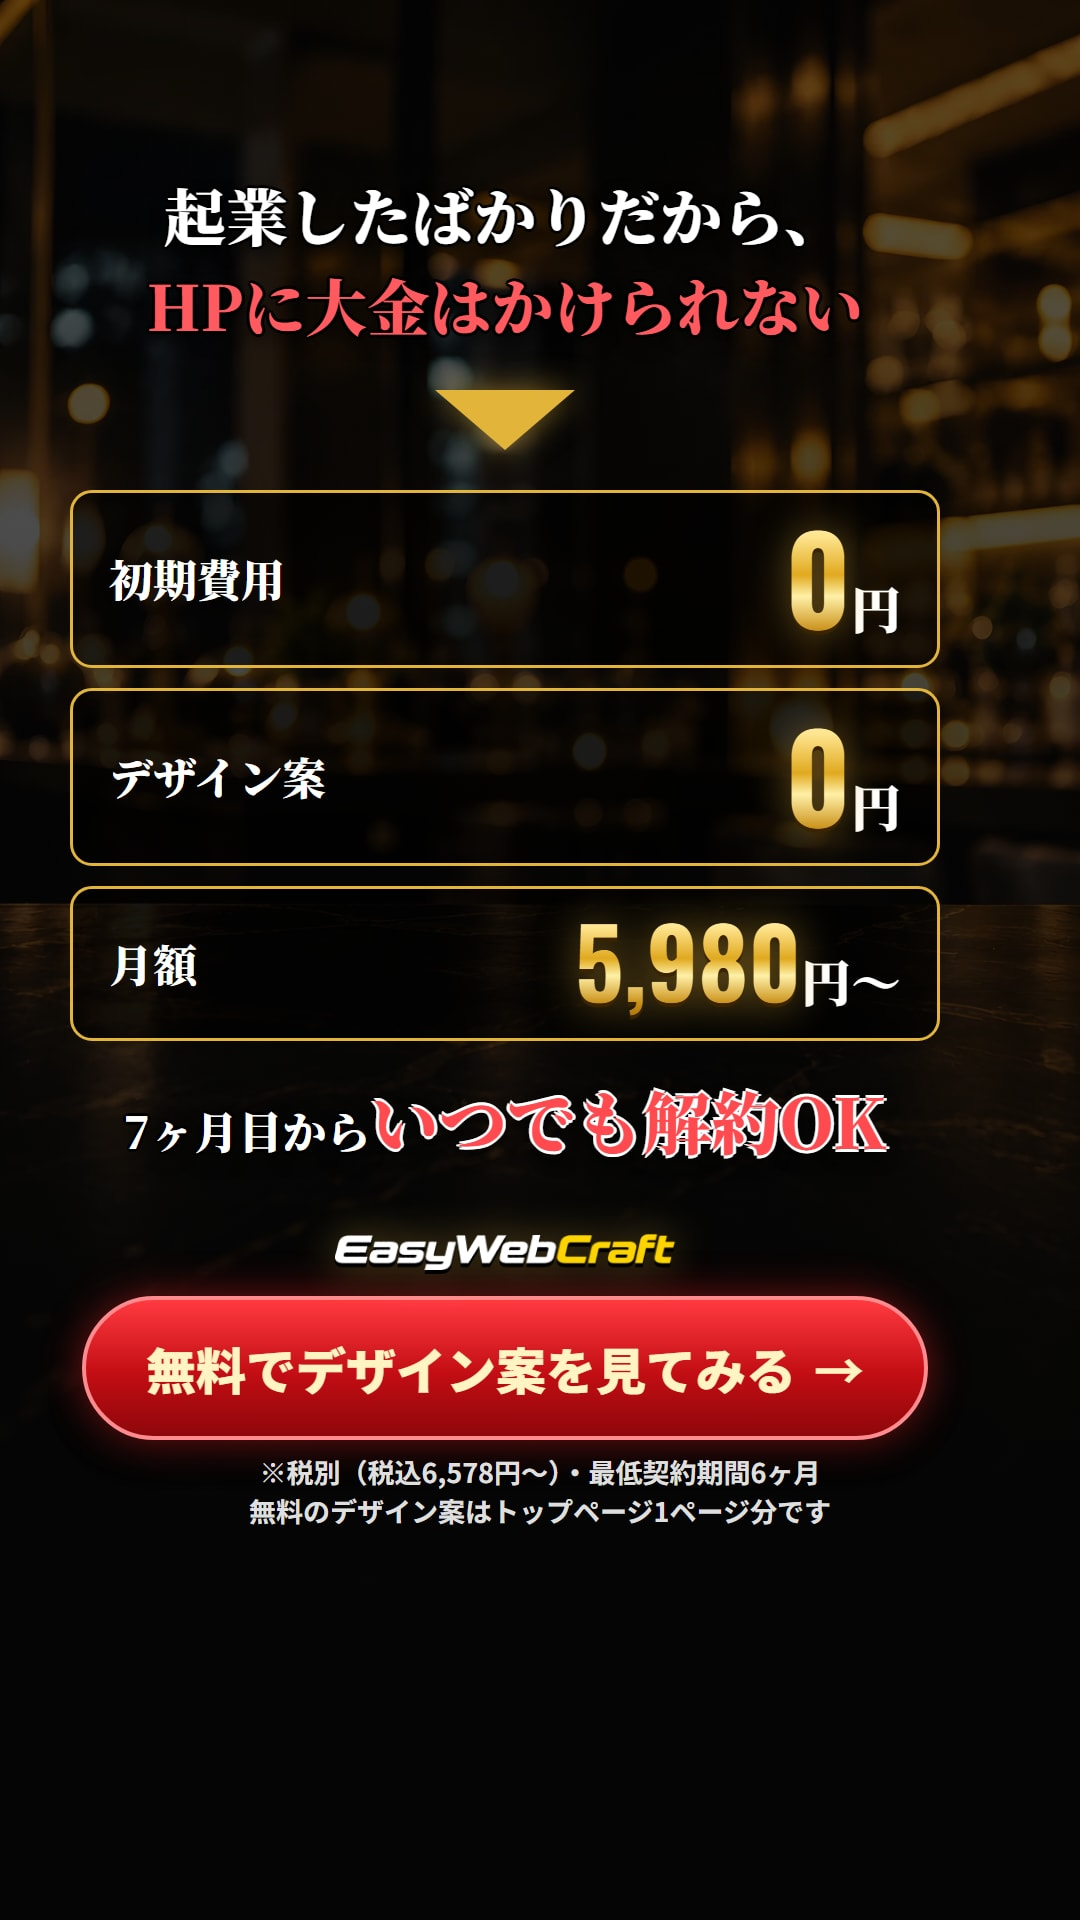
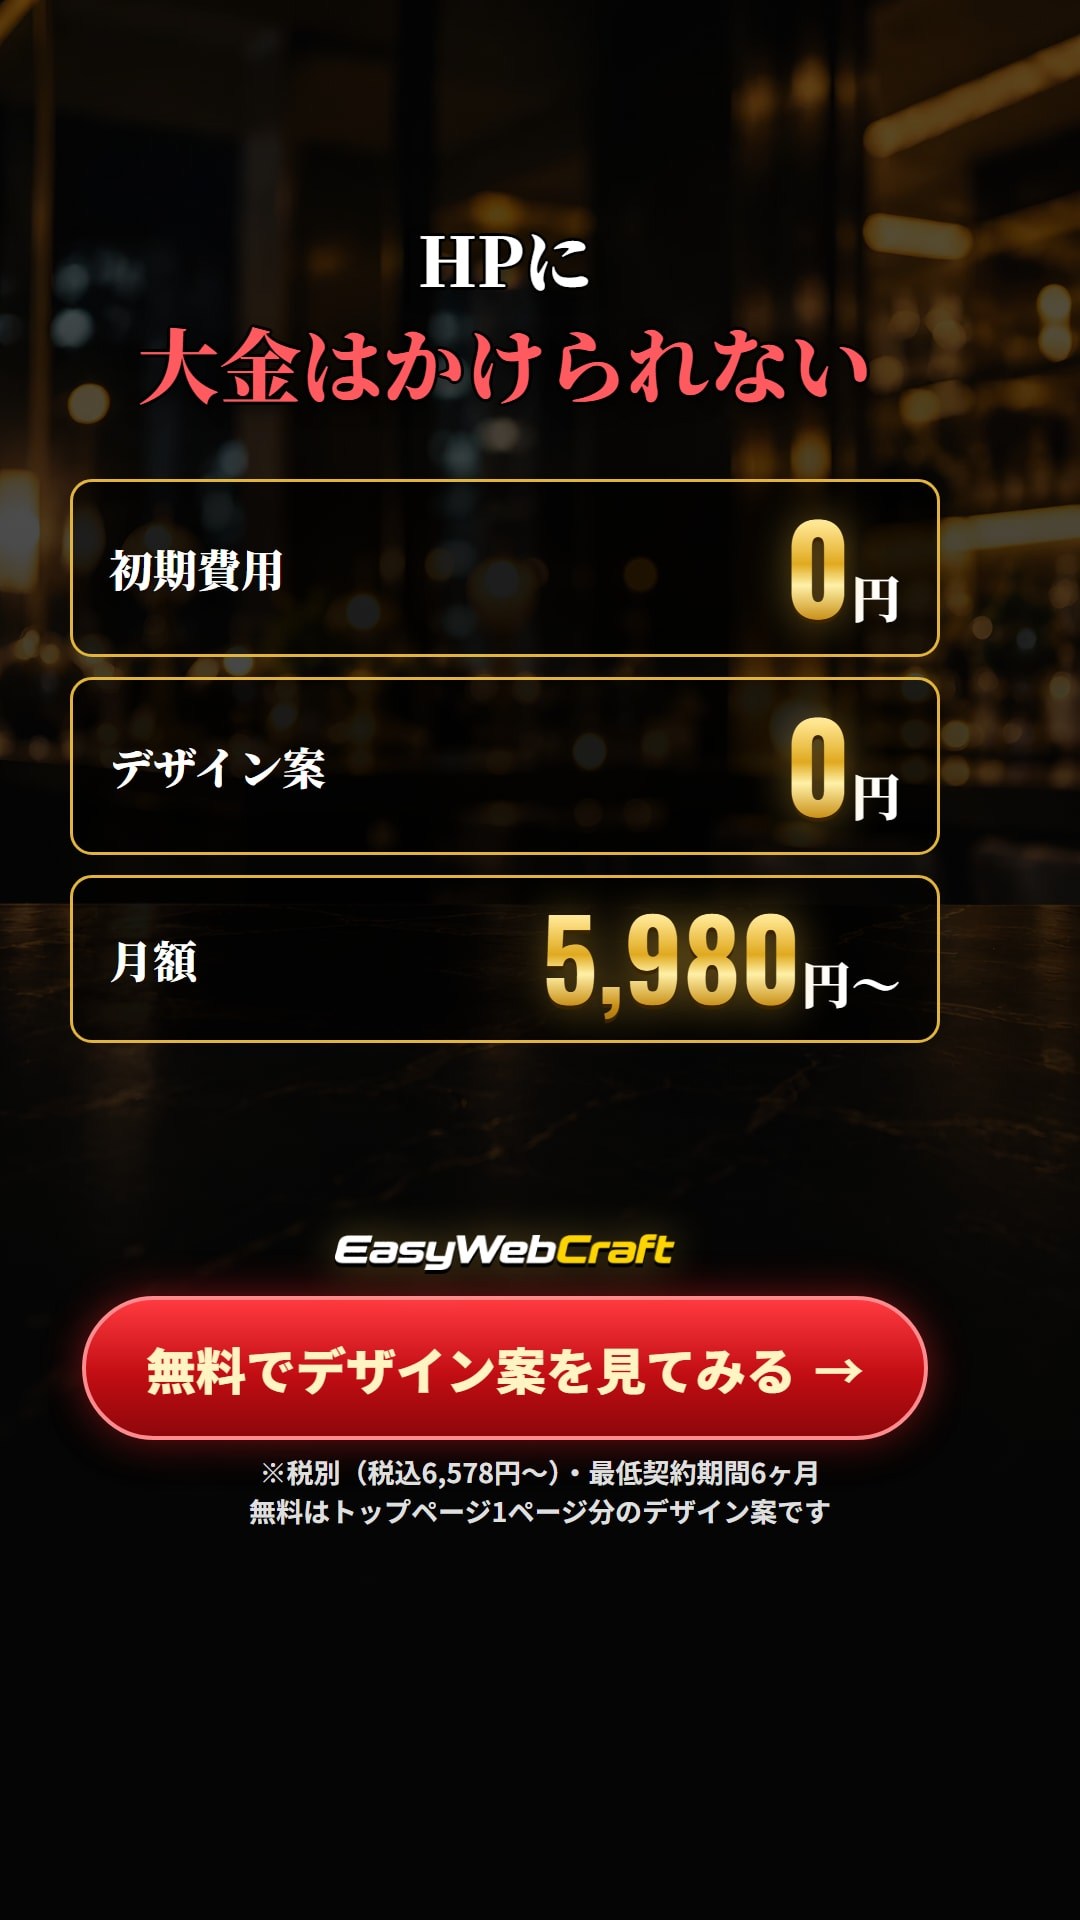
広告6案の文字量を削減（フック＋答え＋CTAに絞る）
Claude-Session: https://claude.ai/code/session_01G65TiHfa1BUco43NvNDLJF

diff --git a/challenge/ads.html b/challenge/ads.html
@@ -122,6 +122,14 @@ body{width:1080px; font-family:"Noto Sans JP",sans-serif; color:#fff; background
 .ad.busy::after{background:linear-gradient(180deg,rgba(5,5,5,0) 0%,rgba(5,5,5,0) 38%,rgba(5,5,5,.7) 52%,rgba(5,5,5,.9) 70%,#050505 100%)}
 #c5 .todo{grid-template-columns:repeat(4,auto); justify-content:center; gap:14px}
 #c5 .todo span{padding:10px 30px; font-size:40px; background:rgba(215,20,26,.75); border-color:#ff8b8e}
+#c3 .chips span{font-size:44px; padding:12px 30px}
+#c2 .offer .h{font-size:56px}
+#c2 .offer .p b{font-size:200px}
+#c3 .chips{flex-wrap:nowrap; gap:10px}
+#c3 .chips span{font-size:38px; padding:10px 22px; white-space:nowrap}
+#c4 .blogo{margin-top:30px}
+.ad.busy::after{background:linear-gradient(180deg,rgba(5,5,5,0) 0%,rgba(5,5,5,0) 32%,rgba(5,5,5,.8) 46%,rgba(5,5,5,.95) 62%,#050505 100%) !important}
+#c5 .in{top:760px}
 </style>
 </head>
 <body>
@@ -131,118 +139,102 @@ body{width:1080px; font-family:"Noto Sans JP",sans-serif; color:#fff; background
   <div class="photo up"></div>
   <div class="in">
     <p class="label">起業したばかりの<br><b>経営者様へ</b></p>
-    <div class="g20"></div>
-    <p class="serif outline hpline">ホームページ制作</p>
-    <div class="g20"></div>
-    <p class="zero outline" style="font-size:52px">初期費用<span class="n gold" style="font-size:96px">0</span>円</p>
-    <p class="price outline" style="font-size:52px">月額<span class="n gold" style="font-size:170px">5,980</span>円〜</p>
     <div class="g30"></div>
-    <p class="serif outline" style="font-size:50px; line-height:1.4">しかも、契約前に<br><span class="gold" style="font-size:1.2em">デザインを確認できます</span></p>
+    <p class="serif outline" style="font-size:80px">ホームページ制作</p>
+    <p class="price outline" style="font-size:60px">月額<span class="n gold" style="font-size:210px">5,980</span>円〜</p>
     <div class="sp"></div>
     <img class="logo blogo" src="img/logo-fv.webp" alt="EasyWebCraft">
     <p class="cta">無料でデザイン案を見てみる</p>
   </div>
-  <p class="fine">※税別（税込6,578円〜）・最低契約期間6ヶ月<br>無料のデザイン案はトップページ1ページ分です</p>
+  <p class="fine">※税別（税込6,578円〜）・最低契約期間6ヶ月</p>
 </section>
 
 <!-- C2 安すぎて不安 → 契約前にデザイン案0円 -->
 <section class="ad" id="c2">
   <div class="in">
-    <p class="q"><span class="d">でも……</span>こんなに安くて本当に<br><b>ちゃんとしたHP</b>が<br>できるの？</p>
-    <div class="g20"></div>
-    <p class="sub outline" style="font-size:44px">「安すぎて不安…」<br>そう思うのは当然です。</p>
-    <div class="g20"></div>
+    <div class="g40"></div>
+    <p class="q" style="font-size:76px">こんなに安くて<br><b>ちゃんとしたHP</b><br>できるの？</p>
+    <div class="g40"></div>
     <div class="arrow"></div>
-    <div class="g20"></div>
-    <p class="serif gold" style="font-size:62px; line-height:1.35">だから、契約する前に<br>実際のデザインを作ります</p>
-    <div class="g30"></div>
-    <div class="offer"><p class="h">あなたの事業専用<br>HPデザイン案</p><p class="p"><b class="gold">0</b>円</p></div>
-    <div class="g20"></div>
-    <p class="serif outline" style="font-size:48px">実物を見てから決めてください</p>
+    <div class="g40"></div>
+    <p class="serif gold" style="font-size:80px; line-height:1.3">契約前に<br>実物を見せます</p>
+    <div class="g40"></div>
+    <div class="offer"><p class="h">HPデザイン案</p><p class="p"><b class="gold">0</b>円</p></div>
     <div class="sp"></div>
     <img class="logo blogo" src="img/logo-fv.webp" alt="EasyWebCraft">
     <p class="cta">無料でデザイン案を見てみる</p>
   </div>
-  <p class="fine">※無料はトップページ1ページ分のデザイン案です<br>ご契約後は月額5,980円〜（税別）・最低契約期間6ヶ月</p>
+  <p class="fine">※無料はトップページ1ページ分のデザイン案です<br>税別（税込6,578円〜）・最低契約期間6ヶ月</p>
 </section>
 
 <!-- C3 検索されても出てこない → 他社へ -->
 <section class="ad" id="c3">
   <div class="in">
-    <p class="serif outline" style="font-size:58px; line-height:1.4">起業した。<br>ホームページも作りたい。</p>
-    <div class="g20"></div>
-    <p class="serif red outline" style="font-size:76px; line-height:1.25">でも、どこに<br>頼めばいい？</p>
-    <div class="g20"></div>
-    <div class="chips"><span>制作会社？</span><span>フリーランス？</span><span>自分で作る？</span></div>
-    <div class="g20"></div>
+    <div class="g40"></div>
+    <p class="serif outline" style="font-size:70px">ホームページ、</p>
+    <p class="serif red outline" style="font-size:96px; line-height:1.3">どこに<br>頼めばいい？</p>
+    <div class="g40"></div>
+    <div class="chips"><span>制作会社？</span><span>フリーランス？</span><span>自分で？</span></div>
+    <div class="g40"></div>
     <div class="arrow"></div>
-    <div class="g20"></div>
-    <p class="serif gold" style="font-size:54px; line-height:1.35">迷っているなら、<br>実際のデザインを見て決めてください</p>
-    <div class="g20"></div>
-    <div class="offer"><p class="h">あなたの事業専用<br>HPデザイン案</p><p class="p"><b class="gold">0</b>円</p></div>
+    <div class="g40"></div>
+    <p class="serif gold" style="font-size:76px; line-height:1.3">デザインを見てから<br>決めてください</p>
     <div class="sp"></div>
     <img class="logo blogo" src="img/logo-fv.webp" alt="EasyWebCraft">
     <p class="cta">無料でデザイン案を見てみる</p>
   </div>
-  <p class="fine">初期費用0円・月額5,980円〜（税別）・最低契約期間6ヶ月<br>無料のデザイン案はトップページ1ページ分です</p>
+  <p class="fine">※無料はトップページ1ページ分のデザイン案です<br>税別（税込6,578円〜）・最低契約期間6ヶ月</p>
 </section>
 
 <!-- C4 事業は決まった、HPは何から？ -->
 <section class="ad face" id="c4">
   <div class="photo think r"></div>
   <div class="in">
-    <p class="serif outline" style="font-size:64px; line-height:1.4">事業は決まった。<br>でも、ホームページは</p>
-    <p class="serif gold" style="font-size:76px; line-height:1.3; white-space:nowrap">何から始めればいい？</p>
+    <p class="serif outline" style="font-size:72px; line-height:1.3">ホームページ</p>
+    <p class="serif gold" style="font-size:78px; line-height:1.3; white-space:nowrap">何から始めればいい？</p>
     <div class="g30"></div>
-    <div class="chips"><span>「何を載せる？」</span><span>「文章は？」</span><span>「写真は？」</span><span>「制作会社は？」</span></div>
+    <div class="arrow"></div>
     <div class="g30"></div>
-    <p class="serif outline" style="font-size:52px; line-height:1.45">何も決まってなくてOK。<br><span class="gold">考えるところから<br>お任せください</span></p>
+    <p class="serif outline" style="font-size:72px; line-height:1.35">何も決まってなくて<br><span class="gold" style="font-size:1.3em">OK</span></p>
     <div class="sp"></div>
     <img class="logo blogo" src="img/logo-fv.webp" alt="EasyWebCraft">
     <p class="cta">無料でデザイン案を見てみる</p>
   </div>
-  <p class="fine">初期費用0円・月額5,980円〜（税別）・最低契約期間6ヶ月<br>相談・トップページのデザイン案までは無料です</p>
+  <p class="fine">※税別（税込6,578円〜）・最低契約期間6ヶ月<br>無料はトップページ1ページ分のデザイン案です</p>
 </section>
 
 <!-- C5 本業が忙しくて手が回らない -->
 <section class="ad busy" id="c5">
   <div class="in">
     <div class="sp"></div>
-    <p class="serif outline" style="font-size:56px; line-height:1.4">起業したばかり。</p>
-    <div class="g10"></div>
-    <div class="todo"><span>営業</span><span>集客</span><span>経理</span><span>…</span></div>
-    <div class="g10"></div>
-    <p class="serif outline" style="font-size:56px; line-height:1.4">やることだらけで<br><span class="red" style="font-size:1.25em">HPまで手が回らない</span></p>
-    <div class="g20"></div>
-    <div class="arrow"></div>
-    <div class="g20"></div>
-    <p class="serif gold" style="font-size:56px; line-height:1.4">文章・構成・デザインまで<br>まとめてお任せください</p>
+    <p class="serif outline" style="font-size:72px; line-height:1.35">忙しくて<br><span class="red" style="font-size:1.2em">HPまで手が回らない</span></p>
     <div class="g30"></div>
+    <div class="arrow"></div>
+    <div class="g30"></div>
+    <p class="serif gold" style="font-size:88px">まるごとお任せ</p>
+    <div class="g40"></div>
     <img class="logo blogo" src="img/logo-fv.webp" alt="EasyWebCraft">
     <p class="cta">無料でデザイン案を見てみる</p>
   </div>
-  <p class="fine">初期費用0円・月額5,980円〜（税別）・最低契約期間6ヶ月<br>相談・トップページのデザイン案までは無料です</p>
+  <p class="fine">※税別（税込6,578円〜）・最低契約期間6ヶ月<br>無料はトップページ1ページ分のデザイン案です</p>
 </section>
 
 <!-- C6 高い・縛り・難しい → 3つの安心 -->
 <section class="ad" id="c6">
   <div class="in">
-    <p class="serif outline" style="font-size:62px; line-height:1.45">起業したばかりだから、<br><span class="red">HPに大金はかけられない</span></p>
     <div class="g40"></div>
-    <div class="arrow"></div>
-    <div class="g40"></div>
+    <p class="serif outline" style="font-size:68px; line-height:1.4">HPに<br><span class="red" style="font-size:1.2em">大金はかけられない</span></p>
+    <div class="g60"></div>
     <div class="three">
       <div><p class="k">初期費用</p><p class="v"><b class="gold">0</b>円</p></div>
       <div><p class="k">デザイン案</p><p class="v"><b class="gold">0</b>円</p></div>
-      <div><p class="k">月額</p><p class="v"><b class="gold" style="font-size:96px">5,980</b>円〜</p></div>
+      <div><p class="k">月額</p><p class="v"><b class="gold" style="font-size:110px">5,980</b>円〜</p></div>
     </div>
-    <div class="g30"></div>
-    <p class="cancel outline" style="font-size:44px">7ヶ月目から<em>いつでも解約OK</em></p>
     <div class="sp"></div>
     <img class="logo blogo" src="img/logo-fv.webp" alt="EasyWebCraft">
     <p class="cta">無料でデザイン案を見てみる</p>
   </div>
-  <p class="fine">※税別（税込6,578円〜）・最低契約期間6ヶ月<br>無料のデザイン案はトップページ1ページ分です</p>
+  <p class="fine">※税別（税込6,578円〜）・最低契約期間6ヶ月<br>無料はトップページ1ページ分のデザイン案です</p>
 </section>
 
 </body>

diff --git a/challenge/index.html b/challenge/index.html
@@ -43,12 +43,12 @@ code{background:var(--bg); padding:0 5px; border-radius:4px; font-size:.88em; wo
   </header>
 
   <div class="grid">
-    <div class="card"><img src="jpg/c1.jpg?v=2" alt="起業したばかりの経営者様へ ホームページ制作 月額5,980円〜"><div class="no"><b>C1</b>起業直後×価格</div><span class="tgt">起業したばかり</span><span class="star">顔出し</span><p class="cap">起業したばかりの経営者様へ。ホームページ制作が初期費用0円・月額5,980円〜（税別）。契約前にデザインを確認できます。</p></div>
-    <div class="card"><img src="jpg/c2.jpg?v=2" alt="こんなに安くて本当にちゃんとしたHPができるの？"><div class="no"><b>C2</b>安すぎて不安？</div><span class="tgt">価格に不安がある人</span><span class="star">主力候補</span><p class="cap">「安すぎて不安…」そう思うのは当然です。だから、契約する前にあなたの事業専用のHPデザイン案を無料で作ります。</p></div>
-    <div class="card"><img src="jpg/c3.jpg?v=3" alt="起業した。でも、どこに頼めばいい？"><div class="no"><b>C3</b>どこに頼めばいい？</div><span class="tgt">依頼先で迷っている人</span><span class="star">新規</span><p class="cap">起業した。ホームページも作りたい。でも、制作会社？フリーランス？自分で作る？迷っているなら、実際のデザインを見て決めてください。デザイン案は0円です。</p></div>
-    <div class="card"><img src="jpg/c4.jpg?v=2" alt="事業は決まった。でも、ホームページは何から始めればいい？"><div class="no"><b>C4</b>何から始めれば？</div><span class="tgt">HPの知識がない人</span><span class="star">顔出し</span><p class="cap">何を載せる？文章は？写真は？制作会社は？何も決まってなくてOK。考えるところからお任せください。</p></div>
-    <div class="card"><img src="jpg/c5.jpg?v=3" alt="起業したばかり。やることだらけでHPまで手が回らない"><div class="no"><b>C5</b>手が回らない</div><span class="tgt">本業が忙しい人</span><span class="star">顔出し</span><p class="cap">営業、集客、経理…やることだらけの起業直後。文章・構成・デザインまで、まとめてお任せください。</p></div>
-    <div class="card"><img src="jpg/c6.jpg?v=2" alt="起業したばかりだから、HPに大金はかけられない"><div class="no"><b>C6</b>安心3点セット</div><span class="tgt">比較検討中の人（リターゲティング向き）</span><p class="cap">初期費用0円・デザイン案0円・月額5,980円〜（税別）。7ヶ月目からいつでも解約OK。</p></div>
+    <div class="card"><img src="jpg/c1.jpg?v=4" alt="起業したばかりの経営者様へ ホームページ制作 月額5,980円〜"><div class="no"><b>C1</b>起業直後×価格</div><span class="tgt">起業したばかり</span><span class="star">顔出し</span><p class="cap">起業したばかりの経営者様へ。ホームページ制作が月額5,980円〜（税別）。</p></div>
+    <div class="card"><img src="jpg/c2.jpg?v=4" alt="こんなに安くて本当にちゃんとしたHPができるの？"><div class="no"><b>C2</b>安すぎて不安？</div><span class="tgt">価格に不安がある人</span><span class="star">主力候補</span><p class="cap">こんなに安くてちゃんとしたHPできるの？契約前に実物を見せます。HPデザイン案0円。</p></div>
+    <div class="card"><img src="jpg/c3.jpg?v=4" alt="起業した。でも、どこに頼めばいい？"><div class="no"><b>C3</b>どこに頼めばいい？</div><span class="tgt">依頼先で迷っている人</span><span class="star">新規</span><p class="cap">ホームページ、どこに頼めばいい？制作会社？フリーランス？自分で？デザインを見てから決めてください。</p></div>
+    <div class="card"><img src="jpg/c4.jpg?v=4" alt="事業は決まった。でも、ホームページは何から始めればいい？"><div class="no"><b>C4</b>何から始めれば？</div><span class="tgt">HPの知識がない人</span><span class="star">顔出し</span><p class="cap">ホームページ、何から始めればいい？何も決まってなくてOK。</p></div>
+    <div class="card"><img src="jpg/c5.jpg?v=4" alt="起業したばかり。やることだらけでHPまで手が回らない"><div class="no"><b>C5</b>手が回らない</div><span class="tgt">本業が忙しい人</span><span class="star">顔出し</span><p class="cap">忙しくてHPまで手が回らない。まるごとお任せください。</p></div>
+    <div class="card"><img src="jpg/c6.jpg?v=4" alt="起業したばかりだから、HPに大金はかけられない"><div class="no"><b>C6</b>安心3点セット</div><span class="tgt">比較検討中の人（リターゲティング向き）</span><p class="cap">HPに大金はかけられない。初期費用0円・デザイン案0円・月額5,980円〜（税別）。</p></div>
   </div>
 
   <div class="box">
